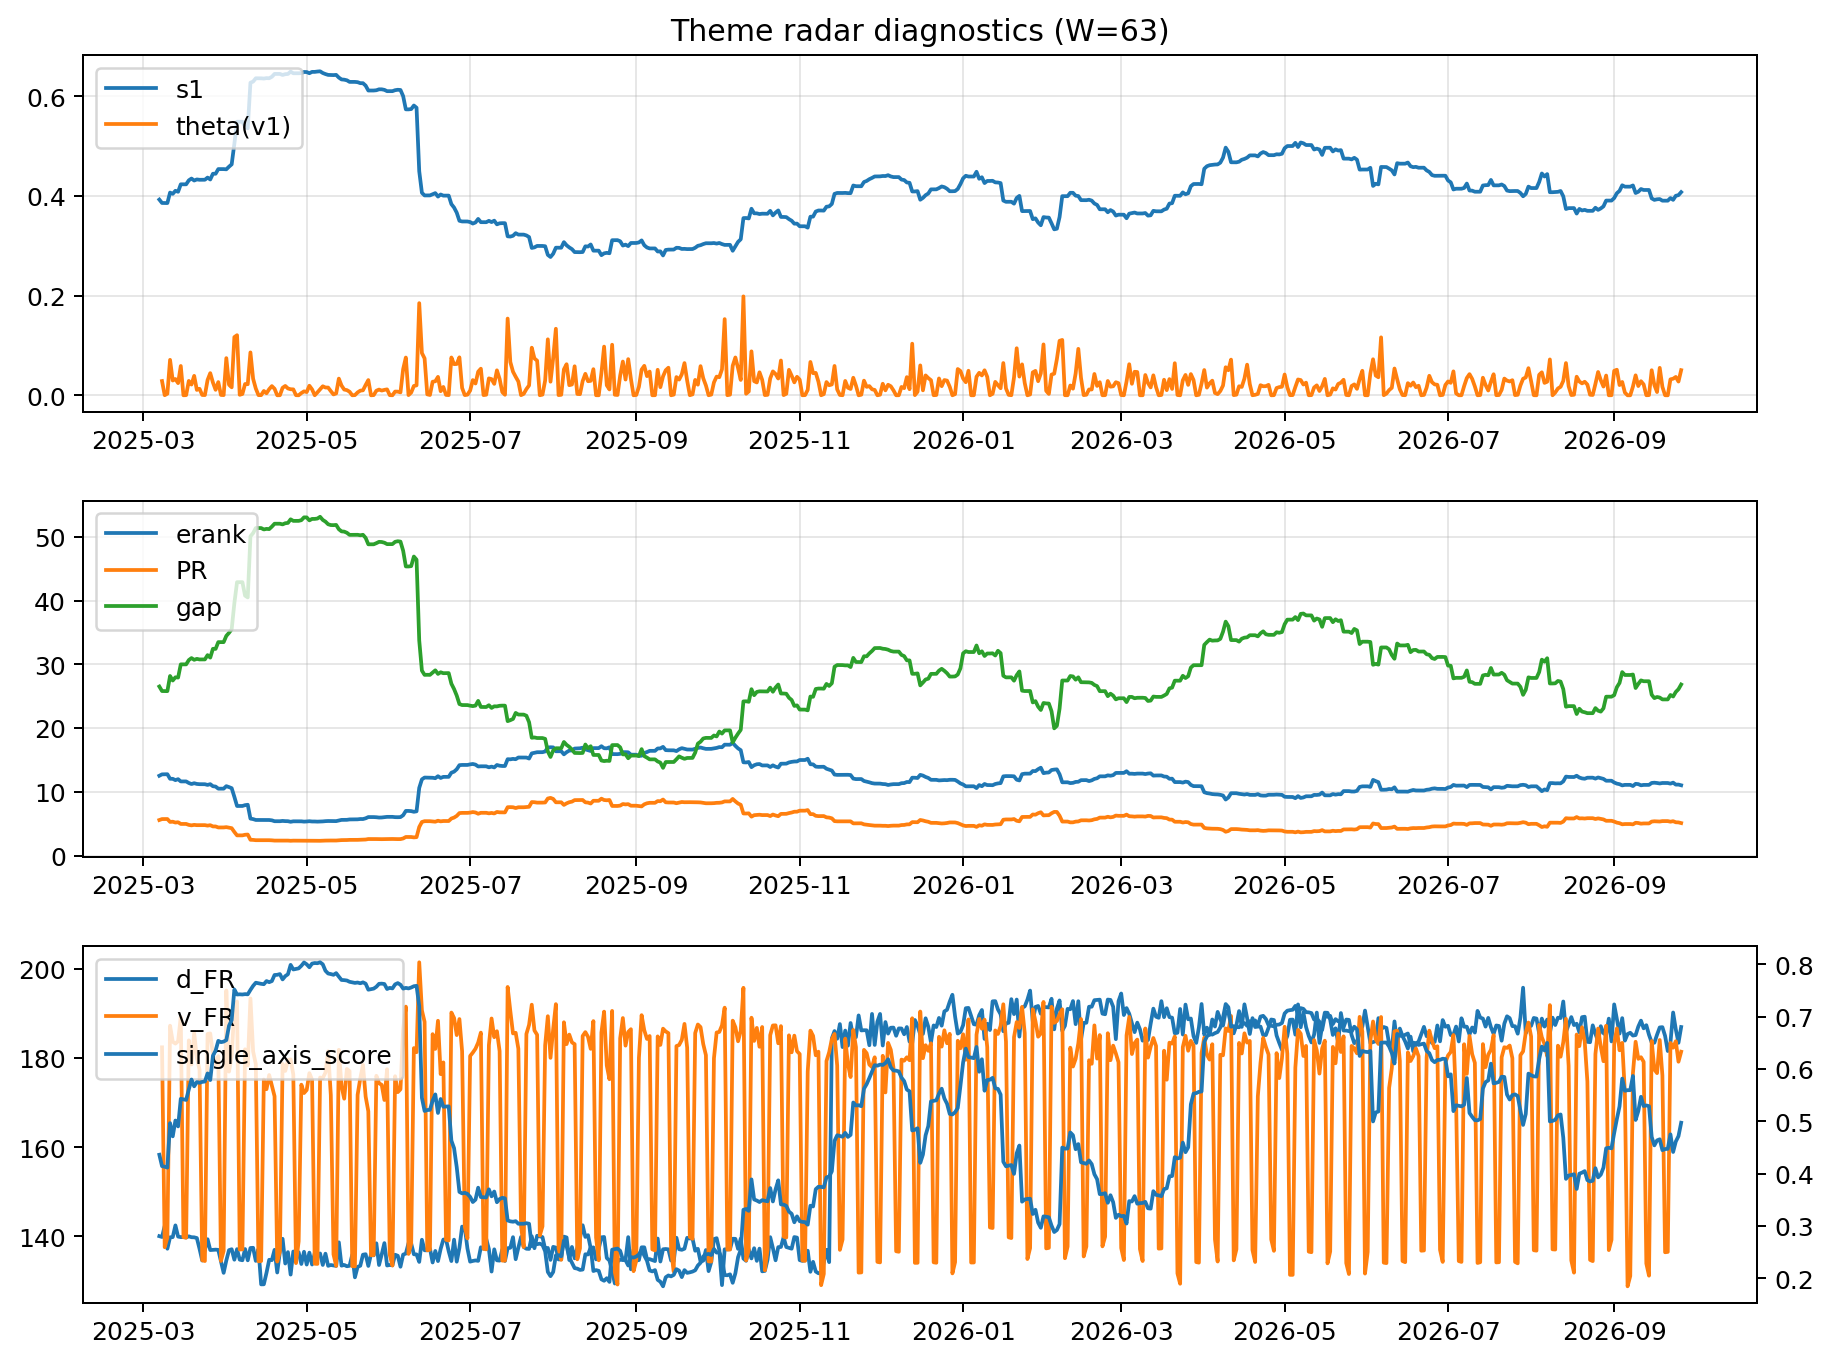
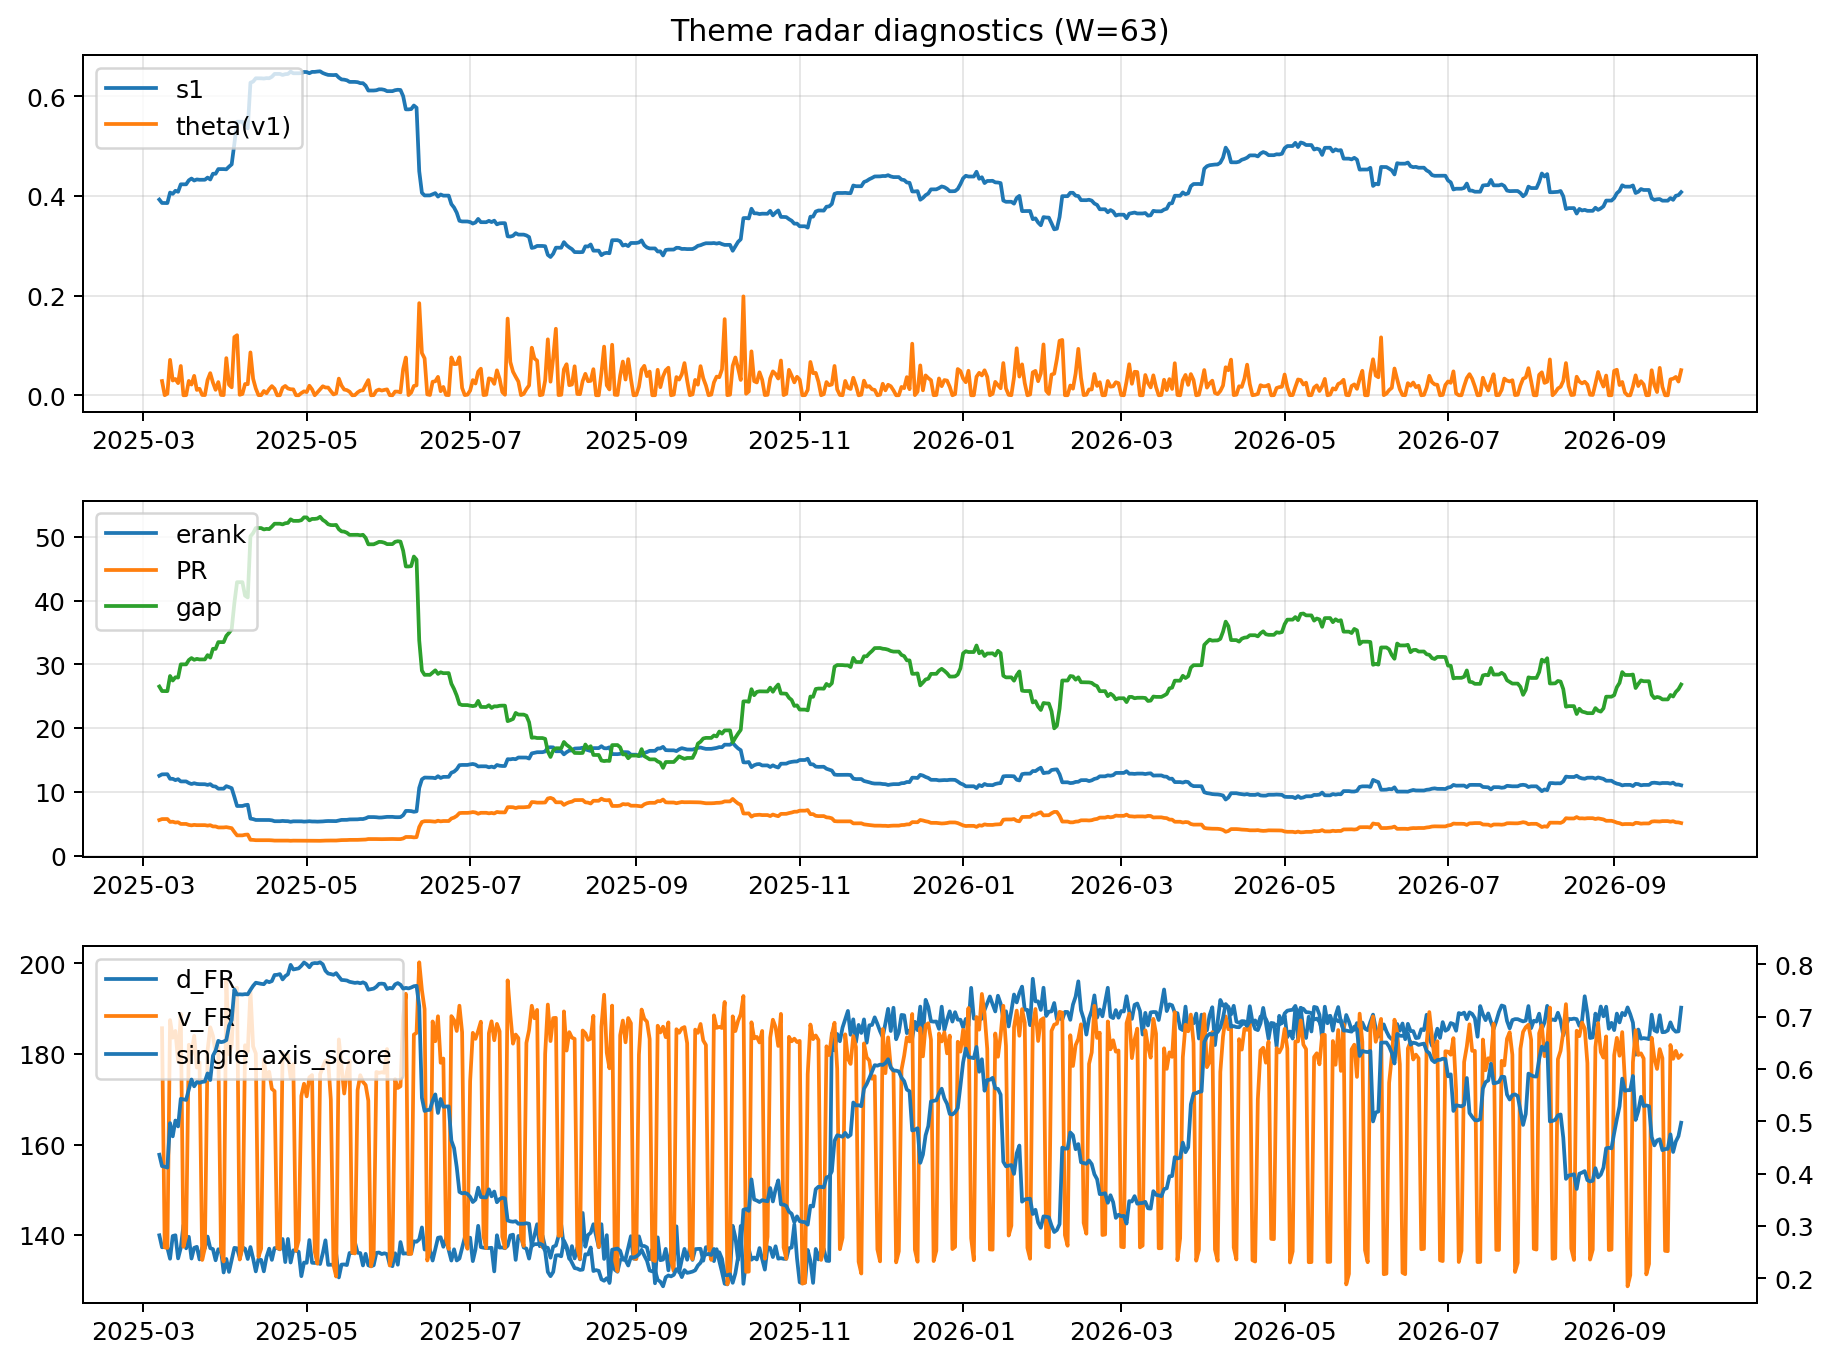
log: 2026-09-26 | sha256:3b4e1670ea294c4164ef8d667fdfaa215d102b94f7bcf593d39cc31fd075e940

diff --git a/logs/2026-09-26.md b/logs/2026-09-26.md
@@ -3,43 +3,43 @@
 ![diagnostic W63](../assets/diagnostic/2026-09-26_W63.png)
 
 ## Leaders (v1) — W=63
-- **Nuclear_Uranium** (0.0814562854606299)
-- Semis (0.0658939765627375)
-- Space (0.0596045206240489)
+- **Nuclear_Uranium** (0.0814562843606842)
+- Semis (0.0658939713983847)
+- Space (0.0596045154093882)
 
 ## Challengers — W=63
-**v2:** Genomics_Bio (0.0907672152199791), Semis (0.0874675362517656), Rates (0.0822397181503404)
-**v3:** Metals (0.0780457355422854), Software_Cloud (0.0776613281540798), MegaCap_AI (0.059398714750034)
+**v2:** Genomics_Bio (0.0907672425595754), Semis (0.0874675196993551), Rates (0.082239691658834)
+**v3:** Metals (0.0780456857398246), Software_Cloud (0.0776614253896713), MegaCap_AI (0.0593987232765044)
 
 ## Migration (20D slope) — W=63
 **Top risers:**
-- axis_DataCenter_Infra: 0.000553203504192
-- axis_Rates: 0.0005161295328718
-- axis_Sector_Utilities: 0.0002248970859561
-- axis_Commodities: 0.0002030410513952
-- axis_Credit: 0.0001954502095263
-- axis_Equity_US: 0.0001335978205779
-- axis_Sector_Materials: 0.0001221680806967
-- axis_MegaCap_AI: 0.0001114804759176
-- axis_Sector_ConsDisc: 9.370466256345225e-05
-- axis_Sector_Ind: 8.262302438621685e-05
+- axis_DataCenter_Infra: 0.0005532036354861
+- axis_Rates: 0.0005161295767937
+- axis_Sector_Utilities: 0.0002248969555904
+- axis_Commodities: 0.0002030409161215
+- axis_Credit: 0.0001954473792824
+- axis_Equity_US: 0.0001335979220015
+- axis_Sector_Materials: 0.0001221680854673
+- axis_MegaCap_AI: 0.000111480456719
+- axis_Sector_ConsDisc: 9.37046395248649e-05
+- axis_Sector_Ind: 8.262303212692761e-05
 
 **Top fallers:**
-- axis_Quantum: -8.772753826300805e-05
-- axis_Defense: -9.218110823907168e-05
-- axis_Critical_Minerals: -9.29874869912468e-05
-- axis_Sector_Energy: -0.0001651449200943
-- axis_Sector_Health: -0.0001907212276699
-- axis_Sector_ConsStap: -0.0002309496233021
-- axis_Metals: -0.000249437927226
-- axis_Cyber: -0.0003306473559556
-- axis_Nuclear_Uranium: -0.0003328044830294
-- axis_Crypto: -0.000443133868391
+- axis_Quantum: -8.772714528268505e-05
+- axis_Defense: -9.218108633168466e-05
+- axis_Critical_Minerals: -9.29873266755205e-05
+- axis_Sector_Energy: -0.0001651449901849
+- axis_Sector_Health: -0.0001907212359372
+- axis_Sector_ConsStap: -0.0002309495641429
+- axis_Metals: -0.0002494377510425
+- axis_Cyber: -0.0003306470858584
+- axis_Nuclear_Uranium: -0.0003328041438258
+- axis_Crypto: -0.0004431338914274
 
 ## Risk line (W=63)
-- s1: 0.407519695988718
-- theta_v1: 0.0504322290130758
-- v_FR: 181.4109021131057
+- s1: 0.4075197629568069
+- theta_v1: 0.0504322210024771
+- v_FR: 179.74544829397382
 - single_axis_score: 0.4973637961335676
 
 ## Interpretation
@@ -48,7 +48,7 @@
 - Action: Tomorrow watchlist: DataCenter_Infra, Rates, Sector_Utilities, Commodities, Credit + v2_top1=Genomics_Bio
 - Action: Hedge note: normal correlation stability.
 
-- Percentiles (W=63 history): vfr_pct=0.54, theta_pct=0.87, s1_pct=0.49, score_pct=0.47.
+- Percentiles (W=63 history): vfr_pct=0.46, theta_pct=0.87, s1_pct=0.49, score_pct=0.47.
 
 ---
[2 lines of base64/hex data omitted]
